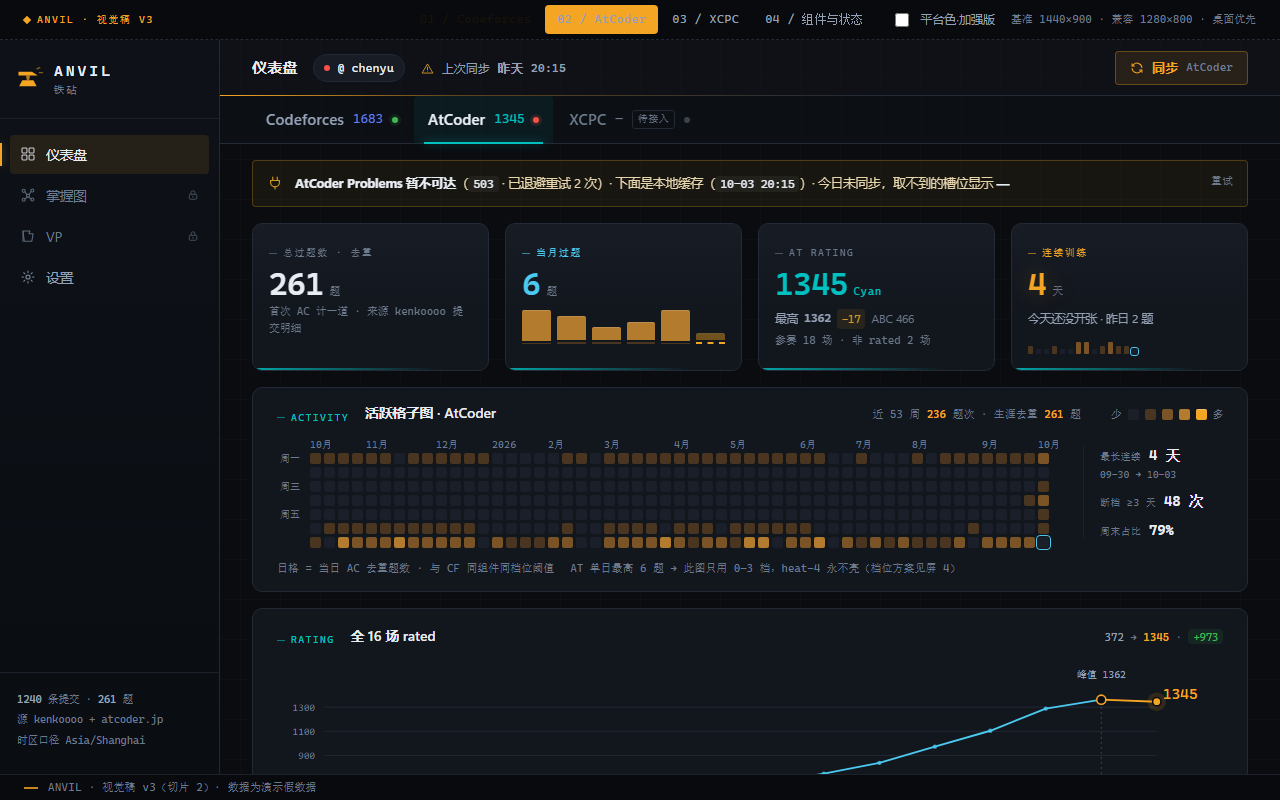
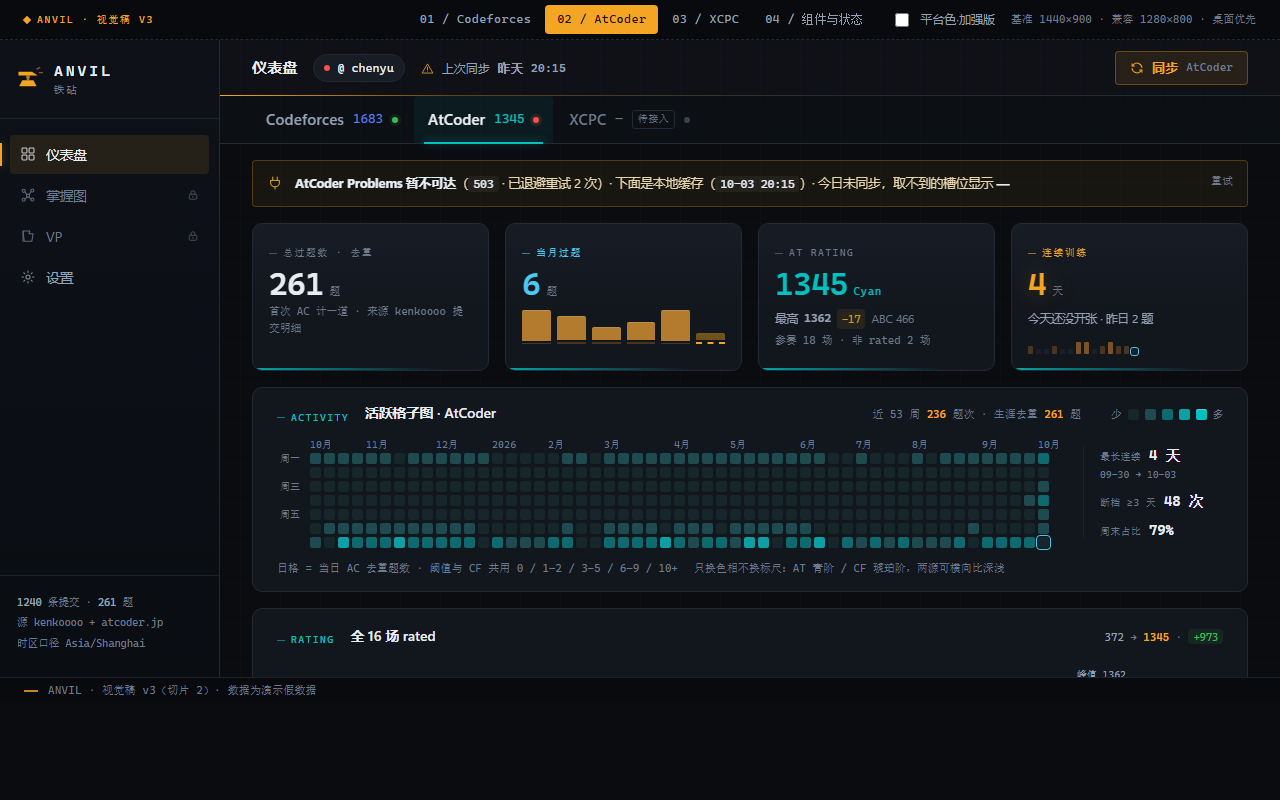
AT 格子定稿：共用档位 + AT 青阶 + 收口清理
- 用户拍：格子档位与 CF 共用（独立阈值否掉 —— "单日 6 题"系演示数据生成器 cap 误读）；色相按源分，仅活跃格子换青
- mock-02 清理：删 lvlAlt 与 alt 死参数；cap:6 补防再误读注释；屏 4"待裁"段改定稿口径（刻度/月柱保持琥珀）
- 文档同步：09 §5/§7 换色范围、10/11/02 口径、02 第 18 轮错误句加更正注记、AGENTS.md mock-02 标记已冻结
- 重出截图：s2 / s2-1280 / s2-strong / s4 / s4-tall

diff --git a/design/mock-02-three-ends.html b/design/mock-02-three-ends.html
@@ -385,8 +385,10 @@ body.pf-strong .dash .cmp--soft .stat,body.pf-strong .dash .cmp--soft .card{
 .acell--future{background:transparent;animation:none;pointer-events:none}
 .acell:hover{outline-color:var(--text)}
 .acell--today{outline:1px solid var(--accent-2)}
-/* AT 独立档位候选：色阶换向（青系），只给屏 4 的方案 B 用 */
-.agrid--alt .acell[data-l="1"]{background:#123C40}
+/* AT 独立档位主题：青系色阶。0 档必须仍看得见 —— 它比卡片底 #12161D 亮一档，
+   压到比卡片底还暗就等于把"打了但没做题"的空格省略掉了，读图会误判成缺数据 */
+.agrid--alt .acell:not(.acell--future){background:#17262B}
+.agrid--alt .acell[data-l="1"]{background:#1E4A50}
 .agrid--alt .acell[data-l="2"]{background:#0E6A6E}
 .agrid--alt .acell[data-l="3"]{background:#0E9EA4}
 .agrid--alt .acell[data-l="4"]{background:var(--pf-at)}
@@ -875,13 +877,13 @@ body.rm-on *,body.rm-on *::before,body.rm-on *::after{
           <span class="card__note">近 53 周 <b data-bind="stats.activityTotal">—</b> 题次 · 生涯去重 <b data-bind="stats.totalSolved">—</b> 题</span>
           <span class="legend" aria-hidden="true" style="margin-left:14px">
             少
-            <i style="background:var(--heat-0)"></i><i style="background:var(--heat-1)"></i><i style="background:var(--heat-2)"></i><i style="background:var(--heat-3)"></i><i style="background:var(--heat-4);box-shadow:inset 0 1px 0 rgba(255,255,255,.3)"></i>
+            <i style="background:#17262B"></i><i style="background:#1E4A50"></i><i style="background:#0E6A6E"></i><i style="background:#0E9EA4"></i><i style="background:var(--pf-at);box-shadow:inset 0 1px 0 rgba(255,255,255,.3)"></i>
             多
           </span>
         </div>
         <div class="agrid-body">
           <div class="agrid-scroll">
-            <div class="agrid" id="agrid-at" role="img" aria-label="近 53 周 AtCoder 活跃格子图"></div>
+            <div class="agrid agrid--alt" id="agrid-at" role="img" aria-label="近 53 周 AtCoder 活跃格子图"></div>
           </div>
           <div class="readout">
             <div class="ro"><span class="ro__k">最长连续</span><b class="ro__v" data-bind="stats.longestRun.days">—</b><span class="ro__n" data-bind="stats.longestRun.range">—</span></div>
@@ -890,8 +892,8 @@ body.rm-on *,body.rm-on *::before,body.rm-on *::after{
           </div>
         </div>
         <div class="afoot">
-          <span class="card__note">日格 = 当日 AC 去重题数 · 与 CF 同组件同档位阈值</span>
-          <span class="card__note mute">AT 单日最高 6 题 → 此图只用 0–3 档，heat-4 永不亮（档位方案见屏 4）</span>
+          <span class="card__note">日格 = 当日 AC 去重题数 · 阈值与 CF 共用 <code>0 / 1–2 / 3–5 / 6–9 / 10+</code></span>
+          <span class="card__note mute">只换色相不换标尺：AT 青阶 / CF 琥珀阶，两源可横向比深浅</span>
         </div>
       </div>
 
@@ -1238,26 +1240,34 @@ body.rm-on *,body.rm-on *::before,body.rm-on *::after{
           </div>
         </section>
 
-        <!-- ---------- AT 格子档位 ---------- -->
+        <!-- ---------- AT 格子：档位 + 色相 ---------- -->
         <section>
-          <h3>AT grid thresholds <span>同一份 AT 数据 · 两套档位</span></h3>
+          <h3>AT grid scale <span>档位与色相是两个独立开关 · 定稿：共用档位 + AT 青阶</span></h3>
+          <p class="hint" style="margin-bottom:var(--sp-2)">
+            <b>档位跨源共用，不动</b>：<code>0 / 1–2 / 3–5 / 6–9 / 10+</code> —— 两源的格子必须同一把尺，否则横向对照读不出"谁更热"。
+            <b>色相按源分</b>：CF 琥珀阶、AT 青阶，明度阶梯一一对应，只换色相。
+          </p>
           <div class="tk-grid2">
             <div>
-              <h4>方案 A · 与 CF 共用阈值（本稿实装）</h4>
-              <div class="agrid agrid--demo" id="agrid-demoA" role="group" aria-label="AT 格子档位方案 A 示例"></div>
+              <h4>琥珀阶 · 不换色的对照</h4>
+              <div class="agrid agrid--demo" id="agrid-demoA" role="group" aria-label="AT 数据套 CF 琥珀阶"></div>
               <div class="legend" style="margin-top:10px">少<i style="background:var(--heat-0)"></i><i style="background:var(--heat-1)"></i><i style="background:var(--heat-2)"></i><i style="background:var(--heat-3)"></i><i style="background:var(--heat-4)"></i>多</div>
-              <p class="hint" style="margin-top:10px">阈值 <code>0 / 1–2 / 3–5 / 6–9 / 10+</code>。AT 单日最高 6 题 → <b>heat-4 永不亮，heat-3 只在满贯日出现</b>，整张图偏灰。</p>
+              <p class="hint" style="margin-top:10px">同一份 AT 数据、同一套档位，只差色相 —— 这块是"不换色"的样子。</p>
             </div>
             <div>
-              <h4>方案 B · AT 独立阈值 + 青系色阶</h4>
-              <div class="agrid agrid--alt agrid--demo" id="agrid-demoB" role="group" aria-label="AT 格子档位方案 B 示例"></div>
-              <div class="legend" style="margin-top:10px">少<i style="background:var(--heat-0)"></i><i style="background:#123C40"></i><i style="background:#0E6A6E"></i><i style="background:#0E9EA4"></i><i style="background:var(--pf-at)"></i>多</div>
-              <p class="hint" style="margin-top:10px">阈值 <code>0 / 1 / 2 / 3 / 4+</code>，把 AT 的量纲摊开。<b>代价</b>：两源的"热"不再是同一个词，跨源对照会读反。</p>
+              <h4>青阶 · 定稿（屏 2 实装）</h4>
+              <div class="agrid agrid--alt agrid--demo" id="agrid-demoB" role="group" aria-label="AT 数据套 AT 青阶"></div>
+              <div class="legend" style="margin-top:10px">少<i style="background:#17262B"></i><i style="background:#1E4A50"></i><i style="background:#0E6A6E"></i><i style="background:#0E9EA4"></i><i style="background:var(--pf-at)"></i>多</div>
+              <p class="hint" style="margin-top:10px">五档明度与琥珀阶逐级对齐（0 档比卡片底亮一档，保证"打了没做题"的空格仍然看得见），深浅读法完全一致。</p>
             </div>
           </div>
           <p class="hint" style="margin-top:14px">
-            两块样本是同一份数据（屏 2 的 AT 尾部 6 周），只差分档函数。方案 A 保住"热力 = 琥珀 = 锻打"这条全局隐喻，方案 B 让 AT 侧看得出深浅。
-            <b>本稿按 <code>docs/09</code> §5 走 A</b>，B 只作对照。
+            <b>已否掉的方向：AT 独立阈值 <code>0/1/2/3/4+</code></b>。我原先拿"演示数据单日最高 6 题 → heat-4 永不亮"当论据，那是<b>错的</b>：
+            那个 6 是稿子里生成器给演示数据设的分配上限（<code>cap</code>），不是 AtCoder 的限制 —— 真实侧 ABC 8 题、ARC 6 题、AGC 6–8 题，练习 AC 同样计入日格，集训日 10 题以上很正常。
+            <b>某个人的数据形状不该反过来设计标尺</b>；档位一独立，两源的格子就再也不能横向比了。
+          </p>
+          <p class="hint" style="margin-top:10px">
+            <b>换色范围（定稿）：仅活跃格子</b> —— 日期矩阵是屏上面积最大的组件，"换了平台"靠它一眼可读；连续训练刻度与当月柱保持琥珀阶，它们是训练热度读数、与 CF 同语言。
           </p>
         </section>
 
@@ -1372,8 +1382,8 @@ body.rm-on *,body.rm-on *::before,body.rm-on *::after{
               <p class="dec__p">用户看了色卡这一版：<b>照这版走</b> —— 采用同色相提亮表（CF Pupil / Expert / Candidate Master 与 AT Brown / Green / Blue 这 6 档只提明度不改色相，其余档位连同 AT 的 Gray / Cyan / Yellow / Orange / Red 一律原生直用）。<b>这等于改掉切片 1 那句"深色底上仍用 CF 原值，不自行提亮"</b>：实现侧 <code>rankColorFor()</code> 要按 source + 深底两套返回，段位色名与档位边界都不动。原生值仍留在 <code>--rk-*</code> 里备查，曲线段色与上面的色卡对照用的就是它。</p>
             </div></div>
             <div class="dec__i dec__i--blue"><div>
-              <div class="dec__t">③ AT 格子用不用独立档位<span class="must">必答</span></div>
-              <p class="dec__p">共用 CF 阈值（方案 A）时 AT 全图只落 0–2 档，看着"永远很冷"，但它诚实：<b>AT 的日强度确实低一个量级</b>，同一把尺正好把差距摆出来。独立阈值（方案 B）读得清深浅，代价是两源不再同标尺。本稿按 <code>docs/09</code> §5 走 A，B 留在屏 4 当对照。</p>
+              <div class="dec__t">③ AT 格子档位<span class="must">已定 · 共用 CF 阈值</span></div>
+              <p class="dec__p">用户拍：<b>档位一律与 CF 共用 <code>0 / 1–2 / 3–5 / 6–9 / 10+</code>，不做独立阈值</b>。我原先主张独立阈值，论据是"AT 单日最高 6 题 → heat-4 永不亮、整图偏灰" —— <b>这条论据是错的</b>：那个 6 是演示数据生成器的分配上限（<code>cap</code>），不是 AtCoder 的限制（真实侧 ABC 8 题、ARC 6 题、AGC 6–8 题，练习 AC 也计日格，集训日 10+ 很正常）。<b>某个人的数据形状不能反过来设计标尺</b>，何况这份数据本身就是测试用的。色相则按源分（AT 青 / CF 琥珀），明度阶梯一一对应，深浅读法不变；换色范围定为"仅活跃格子"（刻度与月柱保持琥珀），见上面 AT grid scale 一节末段。</p>
             </div></div>
             <div class="dec__i dec__i--line"><div>
               <div class="dec__t">④ 顶栏同步按钮多写了源名</div>
@@ -1506,10 +1516,8 @@ function buildDays(seed,cfg){
   return days;
 }
 
-/* 与 CF 同档：0 / 1–2 / 3–5 / 6–9 / 10+（docs/09 §5 两源共用一把尺） */
+/* 与 CF 同档：0 / 1–2 / 3–5 / 6–9 / 10+（docs/09 §5 两源共用一把尺；独立档位方案已否） */
 function lvl(v){return v<=0?0 : v<=2?1 : v<=5?2 : v<=9?3 : 4}
-/* AT 独立档位候选（屏 4 方案 B）：0 / 1 / 2 / 3 / 4+ */
-function lvlAlt(v){return v<=0?0 : v<=1?1 : v<=2?2 : v<=3?3 : 4}
 
 /* ==========================================================================
    GET /api/status → sources：点只说"通不通"，日期与原因交给 tooltip
@@ -1661,6 +1669,7 @@ var DASH={
   }),
   at:buildSource({
     id:"at", seed:0x41544F4D, totalSolved:261,
+    /* cap = 演示数据生成器的分配上限，不是 AT 的限制（曾据此误推"heat-4 永不亮"，见屏 4） */
     days:{tail:AT_FIXED30, zeros:AT_ZEROS, spikes:{}, band:atBand, cap:6, weekend:1, gridTotal:236},
     history:AT_HISTORY,
     rankLabel:"Cyan", rankColor:"var(--rk-at-cyan)",
@@ -1810,8 +1819,8 @@ function renderGrid(host, data, name){
   host.setAttribute("aria-label","近 53 周 "+name+" 活跃格子图：合计 "+data.stats.activityTotal+" 题次");
 }
 
-/* 屏 4 的档位对照：同一份 AT 尾部 7 周，只换分档函数 */
-function renderDemoGrid(host, alt){
+/* 屏 4 的色相对照：同一份 AT 尾部 7 周、同一套档位；色相由容器上的 agrid--alt 决定 */
+function renderDemoGrid(host){
   host.innerHTML="";
   var A=DASH.at.activity.slice(-49), base=parseYMD(A[0].day);
   [0,2,4].forEach(function(r){
@@ -1820,7 +1829,7 @@ function renderDemoGrid(host, alt){
   });
   A.forEach(function(a,i){
     var d=parseYMD(a.day), cell=el("div","acell");
-    cell.dataset.l=String(alt?lvlAlt(a.solved):lvl(a.solved));
+    cell.dataset.l=String(lvl(a.solved));
     cell.style.gridRow=String(dowMon(d)+1); cell.style.gridColumn=String(Math.round((d-base)/MS/7)+2);
     cell.style.animationDelay=i*10+"ms";
     cell.addEventListener("mouseenter",function(){
@@ -2147,8 +2156,8 @@ renderMonths($("#mbars-cf"), DASH.cf);
 renderMonths($("#mbars-at"), DASH.at);
 renderTicks($("#streakTicks-cf"), DASH.cf);
 renderTicks($("#streakTicks-at"), DASH.at);
-renderDemoGrid($("#agrid-demoA"), false);
-renderDemoGrid($("#agrid-demoB"), true);
+renderDemoGrid($("#agrid-demoA"));
+renderDemoGrid($("#agrid-demoB"));
 
 /* 顶栏同步：只拉当前选中源（docs/09 §1.5）。AT 拉成功后降级条当场消失 */
 $$(".syncBtn").forEach(function(btn){
@@ -2191,8 +2200,8 @@ if(window.matchMedia && matchMedia("(prefers-reduced-motion: reduce)").matches) 
 $("#replay").addEventListener("click",function(){
   renderGrid($("#agrid-cf"), DASH.cf, "Codeforces");
   renderGrid($("#agrid-at"), DASH.at, "AtCoder");
-  renderDemoGrid($("#agrid-demoA"), false);
-  renderDemoGrid($("#agrid-demoB"), true);
+  renderDemoGrid($("#agrid-demoA"));
+  renderDemoGrid($("#agrid-demoB"));
   renderTicks($("#streakTicks-cf"), DASH.cf);
   renderTicks($("#streakTicks-at"), DASH.at);
   countUp($("#"+currentScreen()));

diff --git a/docs/11-交付报告-mock02.md b/docs/11-交付报告-mock02.md
@@ -1,7 +1,7 @@
 # 交付报告 · mock-02（切片 2 视觉侧）
 
 > 交付对象：架构侧（用户）。本文件是**视觉稿这一侧的交付说明**，不是实现契约 —— 实现契约仍是 `09-AT规格.md`。
-> 分支：`feat/mock02-card-fly`，**未合并 master**，等审核。工作树干净。
+> 分支：`feat/mock02-card-fly` → **2026-10-04 收口后合并进主分支（原 `master`，同日更名 `main`）**。本报告为交付快照；收口（B6 定稿、死代码清理、mock-02 冻结）见 §5 与 `docs/02` 第 22 轮。
 > 生成时间：2026-10-04。
 
 ---
@@ -21,7 +21,7 @@
 facd468 → 已 revert   实验：AT 三件套色相取反（用户判放弃）
 6a236c5              动效定档（极缓）+ 段位色提亮表定稿 + 平台色按源分档
 be1fc17              动效改向：渐隐渐出 → 卡片两侧飞出 / 底部飞入
-ef1644e (master)     切片 2：AT 规格与 brief 定稿 + mock-02 三端视觉稿
+ef1644e (原 master · 现 main)  切片 2：AT 规格与 brief 定稿 + mock-02 三端视觉稿
 ```
 
 ---
@@ -38,7 +38,7 @@ ef1644e (master)     切片 2：AT 规格与 brief 定稿 + mock-02 三端视觉
 | CF 两处调整：删两张锁定卡、曲线整行 | ✅ | `_shot-v3-s1.png`；锁定卡只存于左导航 |
 | CF 其余一律不动（四卡 / 格子 / 顶栏） | ⚠ **有偏离** | 顶栏同步按钮加了源名；rating 数字改走段位色。见 §4-A2 / B2 |
 | AT：4 统计卡与 CF 同构 | ✅ | `_shot-v3-s2.png` |
-| AT：活跃格子同组件 | ✅ | 同上；53 周窗口与 CF 共用同一把尺 |
+| AT：活跃格子同组件 | ✅ | 同上；53 周窗口与档位阈值全部与 CF 共用，只换色相（青阶） |
 | AT：曲线只收 rated、末点/hover 与 CF 同规则 | ✅ | 16 点 rated，2 场非 rated 不入线 |
 | AT：段位用原生色名 + 原生色 | ✅ | `Cyan` + `#00C0C0` |
 | AT：副行"参赛 N 场 · 非 rated M 场" | ✅ | `参赛 18 场 · 非 rated 2 场`（口径自编，见 §4-B3） |
@@ -92,26 +92,25 @@ ef1644e (master)     切片 2：AT 规格与 brief 定稿 + mock-02 三端视觉
 | **B3** | `10` 内部：假数据"18 场含 2 场非 rated" **vs** 副行示例"参赛 47 场 · 非 rated 5 场" | 同一份画像两个数打架；且曲线若只收 rated，47 场与 18 场点不出同一条线 | 取 18/2 自洽版（曲线 16 点 = 18 − 2），副行按"口径自编合理值"授权写 `参赛 18 场 · 非 rated 2 场` | 若你要 47/5 那组，我把曲线改成 42 点全史（曲线会更密，但"从 Gray 起步"的叙事要重排） |
 | **B4** | `10`"AT rating 从 **400（Gray）** 起" **vs** AT 档位边界（Gray 1–399 / Brown 400–799） | 400 不可能是 Gray，按边界它是 Brown | 起点改 **372**（真 Gray），叙事保持"Gray→Brown→Green→Cyan" | 确认这个更正（否则要么改档位表，要么放弃 Gray 这一段） |
 | **B5** | `10` 日期示例（10-04 / 缓存 10-03） **vs** mock-01 冻结基线（今天 = 10-03 且数字不变） | 见 A6 | 尾部重排 3 格两边讨好 | 若你认为"逐格与 mock-01 完全一致"优先级更高，我退回 10-03 |
-| **B6** | `09` §5"AT 活跃格子与 CF 同构、5 档" **vs** AT 数据现实（单日 ≤6 题） | 同标尺必然导致 **heat-4 永不亮**、整图只用 0–3 档、偏灰 | 按 §5 实装，把代价显式写进卡脚注，并在屏 4 给方案 B（AT 独立青系 4 档）对照 | **仍未拍板**：见 §5 |
+| **B6** | 我主张"AT 独立阈值" **vs** `09` §5"与 CF 同构、5 档" | 我拿演示数据编出"AT 单日 ≤6 题 → heat-4 永不亮"当论据 —— **那是生成器上限 `cap:6`，不是平台事实**（真实侧 ABC 8 / ARC 6 / AGC 6–8 题，练习 AC 也计日格） | 用户拍：**档位一律共用 CF 阈值**，独立阈值否掉；色相按源分（AT 青 / CF 琥珀）。口径写进 `09` §5/§7，屏 4 的对照样本改成"同数据同分档、只差色相" | 已定稿；换色范围 = 仅活跃格子，刻度柱 / 月柱保持琥珀（架构侧收口定稿，见 §5） |
 | **B7** | `09` §7"不动段位色规则" **vs** 深底可读性（Expert `#0000FF` 在 `#0A0C10` 上约 1.6:1，13px 读不出） | 忠实站点 与 读得出来 二选一 | 用户已拍：走提亮表（§3-2），同时推翻 `rating.ts` 那句注释级口径 | 无（已定） |
 | **B8** | `09` §7"热力色阶不动" **vs** 用户第 18 轮"AT 三件套色相取反" | 取反必然动热力色阶 | 做成可开关实验态并实测作用域干净，用户判**放弃**，已 `git revert` 回退，稿内零残留 | 无（已回退）；`09` §7 未改口径 |
 
 ---
 
-## 5. 未拍板 · 待裁决
+## 5. 已定稿（B6 收口 + 换色范围）
 
-**AT 活跃格子的档位（B6）** —— 三条必答里唯一还没定的。
+**AT 格子档位：用户拍定 —— 一律与 CF 共用 `0 / 1–2 / 3–5 / 6–9 / 10+`，不做独立阈值。** 色相则按源分（CF 琥珀阶 / AT 青阶，明度逐级对齐）。口径已写进 `09` §5 与 §7。
 
-- 现状（按 `09` §5）：与 CF 共用 `0 / 1–2 / 3–5 / 6–9 / 10+`，结果 heat-4 永不亮、heat-3 只在满贯日出现，整图偏灰。
-- 但同标尺把差距摆得很清楚：**AT 活跃 116 天 / 周末占比 79% / 断档 48 次** vs **CF 312 天 / 45% / 7 次**。
-- 备选：AT 独立阈值 `0/1/2/3/4+` + 青系色阶（屏 4 有对照样本，同一份数据）。代价是两源的"热"不再是同一个词。
-- 我倾向保留共用标尺（诚实呈现量级差），但这条该你定。
+> **我在这条上犯的错，记下来免得再犯**：我主张独立阈值，论据是"AT 单日最高 6 题 → heat-4 永不亮、整图偏灰"。那个 6 根本不是 AtCoder 的限制，是我这份演示数据生成器里的分配上限参数 `cap:6` —— 一个参数泄漏成了三条"事实"主张（卡脚注、屏 4 对照、本报告 B6 行）。真实侧 ABC 8 题 / ARC 6 题 / AGC 6–8 题，练习 AC 同样计入日格，集训日 10 题以上很正常。**教训：演示数据的形状不能当设计论据，何况这份数据本身就是测试用的。**
+
+**换色范围：仅活跃格子（架构侧收口定稿）** —— 设计侧原标注为"折中、不是终态"，2026-10-04 定为终态：用户点名的是格子；格子是日期矩阵、屏上面积最大的组件，"换了平台"靠它一眼可读；连续训练刻度与当月柱保持琥珀阶（训练热度读数、与 CF 同语言，保住"琥珀 = 训练热度"的跨源读法）。若日后要整屏一起青，改法 = 给刻度 / 月柱挂同一色相作用域。
 
 ---
 
 ## 6. 已知问题与未覆盖项
 
-1. **设置页 AT handle 行未出稿** —— `09` §3.2 要求"设置页两行：CF / AT，各含 handle 输入、校验、源状态、上次同步、单源同步按钮"，但 `10` 的 4 屏里没列设置页。**这是本轮交付的真实缺口**，需要补一屏或明确留给实现阶段照 §3.2 自拟。
+1. **设置页 AT handle 行未出稿** —— `09` §3.2 要求"设置页两行：CF / AT，各含 handle 输入、校验、源状态、上次同步、单源同步按钮"，但 `10` 的 4 屏里没列设置页。**这是本轮交付的真实缺口**；架构侧裁定：**不补设计稿**，实现阶段照 `09` §3.2 自拟（输入组件样式沿 mock-01 向导屏）。
 2. **AT 未配置空态只给了样本卡**（屏 4「Unconfigured」），没有完整的"点 tab → 空态 → 去设置 → 校验 → 同步"流程稿。
 3. **tooltip 不随源换色** —— 它挂在 body 上，是全局浮层。当前口径下没问题；若将来重启色相取反类实验，会出现卡内青、tooltip 琥珀的不一致（第 18 轮已记）。
 4. **AT 段位色低段边界待再打卡** —— `#804000 / #008000 / #00C0C0 / #0000FF / #C0C000 / #FF8000 / #FF0000 / #808080` 取自站点 CSS 的第三方公开镜像（GitHub 代码搜索命中的抓取型仓库），档位边界与 `docs/08` 实测 class 样本同解（2006→yellow、2708→orange、2958+→red）；400/800/1200/1600 四个低段边界实现阶段建议按 08 的办法再验一次。
@@ -138,6 +137,6 @@ ef1644e (master)     切片 2：AT 规格与 brief 定稿 + mock-02 三端视觉
 
 ## 8. 冻结物未动声明
 
-`docs/01-开发文档-v1.0草案.md`（冻结，待重写）、`docs/04-骨架规格.md`（切片 1 契约，已交付）、`design/mock-01-dashboard.html`（切片 1 视觉基线，已冻结）、`实现说明.md` —— 本分支全程未修改，可用 `git diff master --name-only` 核对。
+`docs/01-开发文档-v1.0草案.md`（冻结，待重写）、`docs/04-骨架规格.md`（切片 1 契约，已交付）、`design/mock-01-dashboard.html`（切片 1 视觉基线，已冻结）、`实现说明.md` —— 本分支全程未修改，可用 `git diff ef1644e --name-only` 核对（ef1644e = 本分支起点）。
 
 本轮对 `docs/02`（讨论记录）、`docs/09`（切片 2 契约）、`docs/10`（设计 brief）做过追加与口径改写，全部在"非冻结 + 当前切片"范围内。

diff --git a/docs/02-设计讨论记录.md b/docs/02-设计讨论记录.md
@@ -5,6 +5,42 @@
 
 ---
 
+## 2026-10-04 · 第 22 轮：定档收口 —— 审核清理 + 冻结 + **合并进 main**
+
+- 用户定档两条：①"AT 单日上限 6 题"**确认是测试数据生成器的误解**（非平台事实；第 21 轮已全面纠正，本轮复核零残留）；②**AT 格子用青**，即第 21 轮那版（共用档位 + 青阶）。
+- 架构侧审核 + 收口（本轮改动）：
+  - mock-02：删 `lvlAlt` 与 `renderGrid` / `renderDemoGrid` 的 `alt` 死参数（独立档位方案已否，代码零残留）；屏 4"待裁不一致"段改为定稿口径；`cap:6` 补注释防再误读；屏 2 脚注与对照块标题措辞校准。
+  - `09` §5/§7 补"换色范围仅活跃格子"；`02` 第 18 轮错误句加更正注记；`11` 收口（B6 行、§5、§6-1 设置页裁定、提交图与 diff 命令标注）；`AGENTS.md` mock-02 改"已冻结"。
+  - 截图重出 5 张（s2 / s2-1280 / s2-strong / s4 / s4-tall），青阶可读性（含 0 档可见）目检通过。
+- **两条收口裁定**：①换色范围 = **仅活跃格子**（用户点名的是格子；面积最大、换平台识别信号最强；刻度/月柱守"训练热度 = 琥珀"的跨源读法。若日后要整屏一起青，改法 = 给两件套挂同一色相作用域）；②**设置页不补设计稿**，实现阶段照 `09` §3.2 自拟（输入组件沿 mock-01 向导样式）。
+- **冻结与合并**：`mock-02-three-ends.html` 冻结；`feat/mock02-card-fly` 合并进主分支；主分支 `master` → **`main`**（无远程，用户要求）。
+- 下一步：实现 agent 开工切片 2 —— 材料 = `AGENTS.md` + `docs/09`（唯一契约）+ `design/mock-01` / `mock-02` + `docs/11` 的 A 类偏离清单；单 agent 单分支。
+
+---
+
+## 2026-10-04 · 第 21 轮（设计侧）：B6 收口 —— 档位共用 CF、色相按源分；顺带纠我一个错
+
+- 用户拍：**AT 格子档位一律与 CF 共用 `0/1–2/3–5/6–9/10+`，独立阈值否掉**；色相按源分（CF 琥珀阶 / AT 青阶，明度逐级对齐）。屏 2 已回共用分档，青阶保留。
+- **我此前主张独立阈值的论据是错的**：拿"AT 单日最高 6 题 → heat-4 永不亮"当平台事实，其实那个 6 是演示数据生成器的分配上限参数 `cap:6`；真实侧 ABC 8 / ARC 6 / AGC 6–8 题，练习 AC 同样计日格。一个参数泄漏成三条"事实"主张（卡脚注、屏 4 对照、`docs/11` 的 B6 行），已全部改正。**教训：演示数据的形状不能当设计论据。**
+- 屏 4 那一节从"方案 A vs 方案 B（两套档位）"改写成"**同数据同分档、只差色相**"的两块对照，顺带把第 20 轮笔记要的 B′ 效果做出来了 —— 现在两块样本的分档函数完全相同，看官一眼就能把"档位"和"色相"两件事分开。
+- 口径已同步：`09` §5（档位不得按源独立 + 色阶按源分）、`09` §7（热力色阶的"档位/色相"分开表述）、`10`（AT tab 那行）、`11`（B6 行改写 + §5 收口 + 错误记录）。
+- **遗留待裁**：AT 屏只有格子换青，连续训练刻度与当月柱仍琥珀 —— 同一套热力色阶的衍生件被劈开了，要么整屏一起青，要么格子退回琥珀。这轮没动（用户说其它不动）。**（2026-10-04 第 22 轮已定稿：换色范围仅活跃格子，刻度/月柱保持琥珀。）**
+- 第 20 轮那段是另一位 agent 写的，我未改动其内容。
+
+---
+
+## 2026-10-04 · 第 20 轮：架构侧复核 mock-02（通过）+ B6 拆解建议
+
+- 复核 `docs/11` 交付报告 + s1/s2/s4 截图：**通过**。CF 回归逐项对上（912 / 9 / 1683 Expert / 12 天 / 1024 题次 / 71 天 / 断档 7 / 周末 45%）；动效定档（极缓 1644ms）、段位色提亮表、平台色分档、R18 实验回退均已核。
+- A 类偏离表态：A1 / A2 / A3 保留，A5 / A6 接受，A4 可，A7 XCPC 色推切片 3 再定（绯=万能红有误读风险），A8 同意实现侧"立即落位再开播目标档"。
+- **B6 拆成两个决策（我的建议，待用户拍）**：
+  1. **档位** → 建议 **AT 独立 `0/1/2/3/4+`**：共用档位下"1 题"与"2 题"同桶（AT 最常见两种日子同色=信息坍缩），且 6-9 / 10+ 永久死档；与"美化"无关，是信息问题。`lvl()` 按源分派、14 日刻度跟随。
+  2. **色相** → 建议**保琥珀**（"热=你的努力"与"平台身份"是两个通道；只换格子会劈开"热家族"；整族换青即 R18 已否实验的镜像）——但请设计 agent 加合成样本 **方案 B′ = 独立阈值 + 琥珀色阶**，与方案 B（独立阈值 + 青阶）同屏同数据并排，用户眼见为实后再拍。
+- 报告 §6-1 设置页缺口：建议顺手补半屏（AT handle 行 + 源状态 + 数据来源说明块），与 B′ 同批交付。
+- 后续：微调落毕 → 我核 → **合并 `feat/mock02-card-fly` 进 master + 冻结 mock-02** → 实现 agent 开工切片 2。
+
+---
+
 ## 2026-10-04 · 第 19 轮：交付 —— 出 `docs/11-交付报告-mock02.md`
 
 - 写切片 2 视觉侧交付报告：交付物清单 + brief 逐条完成度对照 + 已定稿三条 + **主张与冲突清单**（A 类 = 我偏离原要求的地方，B 类 = 原要求之间本来就撞的地方）+ 已知问题与未覆盖项 + 复现方法。
@@ -18,7 +54,7 @@
 - 用户主动试一轮：AT 屏的 当月柱 / 连续刻度 / 活跃格子 三件套内 琥珀 ↔ 青 整条对调，CF 不动。做法是给三组件挂 `hue-target`，在该子树里重定义 `--accent` / `--accent-2` / `--pf` / `--heat-0..4`（青系阶梯，明度跨度一一对应，"深浅 = 多少"的读法不变）。
 - 实测作用域干净（AT 逐项换色、CF 逐项原值、AT 顶栏按钮不外溢、关开关即回原状），但**用户判"放弃"** —— 与 `09` §7"热力色阶不动"、以及"冷铁→炉火"这条根隐喻相抵，且卡头 accent 换琥珀会拆掉 AT 一处归属信号。
 - 回退方式：`git revert`（保留尝试痕迹，不改写历史），代码与截图完全回到第 17 轮定档态，稿内零残留。
-- 顺带暴露一条数据事实：AT 单日最多 6 题 → 格子最高只到 heat-3，青阶顶端在格子里本来就不会出现。
+- 顺带暴露一条"数据事实"：AT 单日最多 6 题 → 格子最高只到 heat-3，青阶顶端在格子里本来就不会出现。**（2026-10-04 更正：此说不成立** —— 那个 6 是演示数据生成器的分配上限 `cap`，不是 AtCoder 的限制；结论与实测口径见第 21 轮。）**
 
 ---
 

diff --git a/docs/10-设计brief-mock02.md b/docs/10-设计brief-mock02.md
@@ -32,7 +32,7 @@
 ## AT tab（新设计）
 
 - **4 统计卡**与 CF 同构（总过题 / 当月过题 / AT Rating / 连续训练）。
-- **活跃格子**同组件；**rating 曲线**：只收 rated 场次，末点/hover 与 CF 同规则。
+- **活跃格子**同组件（**档位一律沿用 CF 阈值 `0/1–2/3–5/6–9/10+`，不按源独立分档；色阶按源分：CF 琥珀、AT 青，明度逐级对齐** —— 2026-10-04 定稿，理由与踩坑见 `docs/11` §5）；**rating 曲线**：只收 rated 场次，末点/hover 与 CF 同规则。
 - AT 特有点：
   - 段位显示 **AT 原生色名 + 原生色**（Gray/Brown/Green/Cyan/Blue/Yellow/Orange/Red），不做中译；
   - rating 卡副行：`参赛 47 场 · 非 rated 5 场`（口径自编合理值）；

diff --git a/AGENTS.md b/AGENTS.md
@@ -20,7 +20,7 @@
 
 - `npm run dev` / `npm run build` / `npm start` / `npm test`；`start.bat` 为双击入口；服务端口 7788。
 - 运行时数据在 `vault/`（gitignore；提供 `vault.example/` 用于初始化）。
-- 视觉基线：`design/mock-01-dashboard.html`（切片 1，已冻结）+ `design/mock-02-three-ends.html`（切片 2 增量，产出后冻结）；截图见 `design/_shots/`。
+- 视觉基线：`design/mock-01-dashboard.html`（切片 1，已冻结）+ `design/mock-02-three-ends.html`（切片 2，已冻结）；截图见 `design/_shots/`。
 
 ## 仓库结构
 
